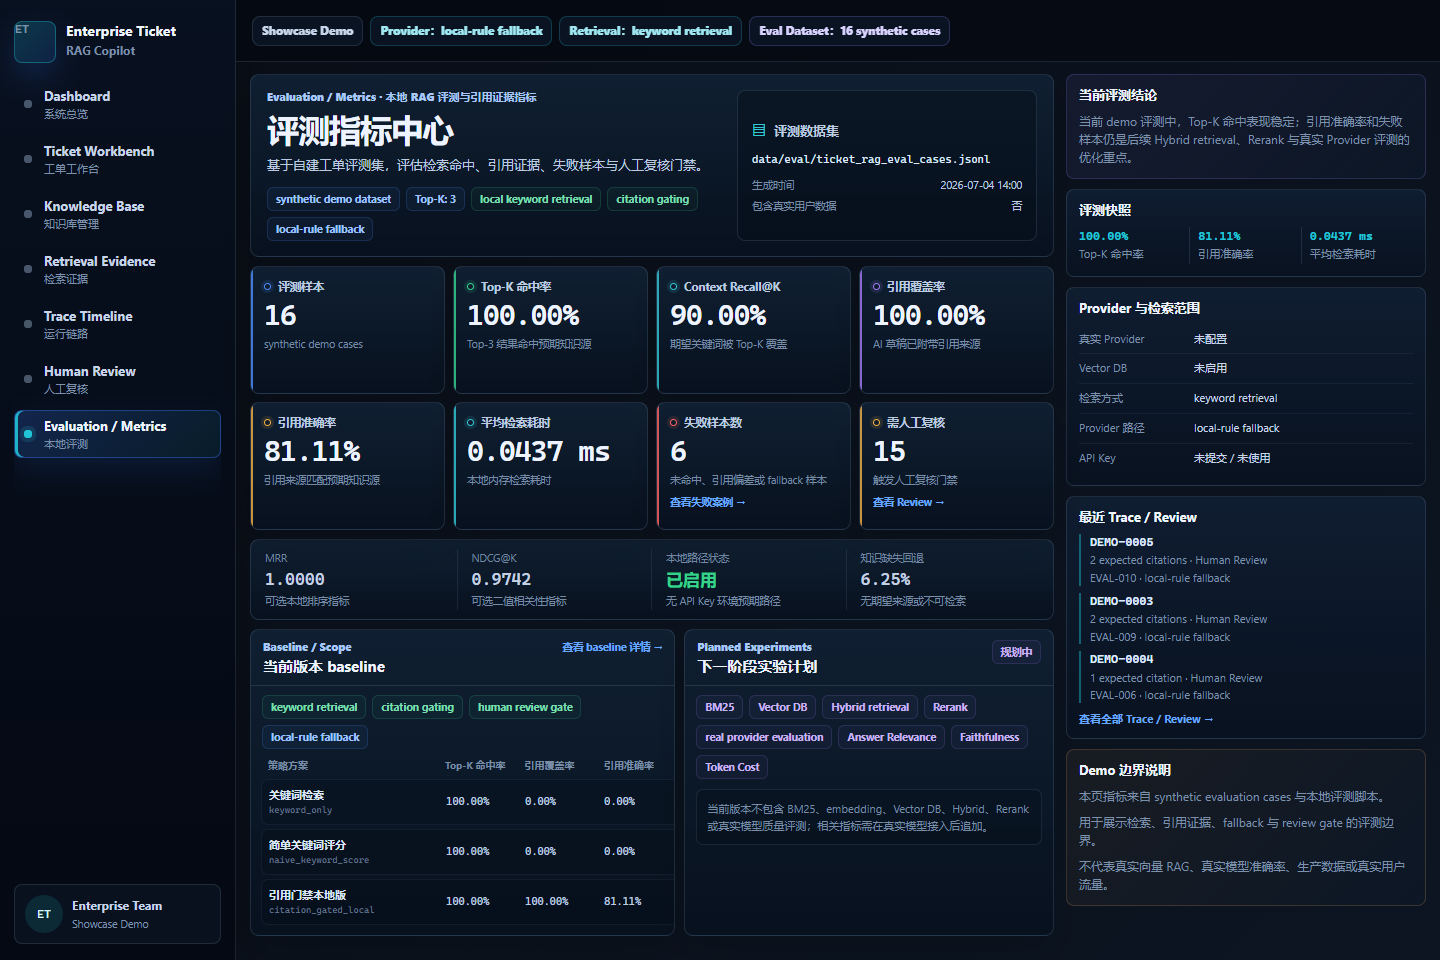
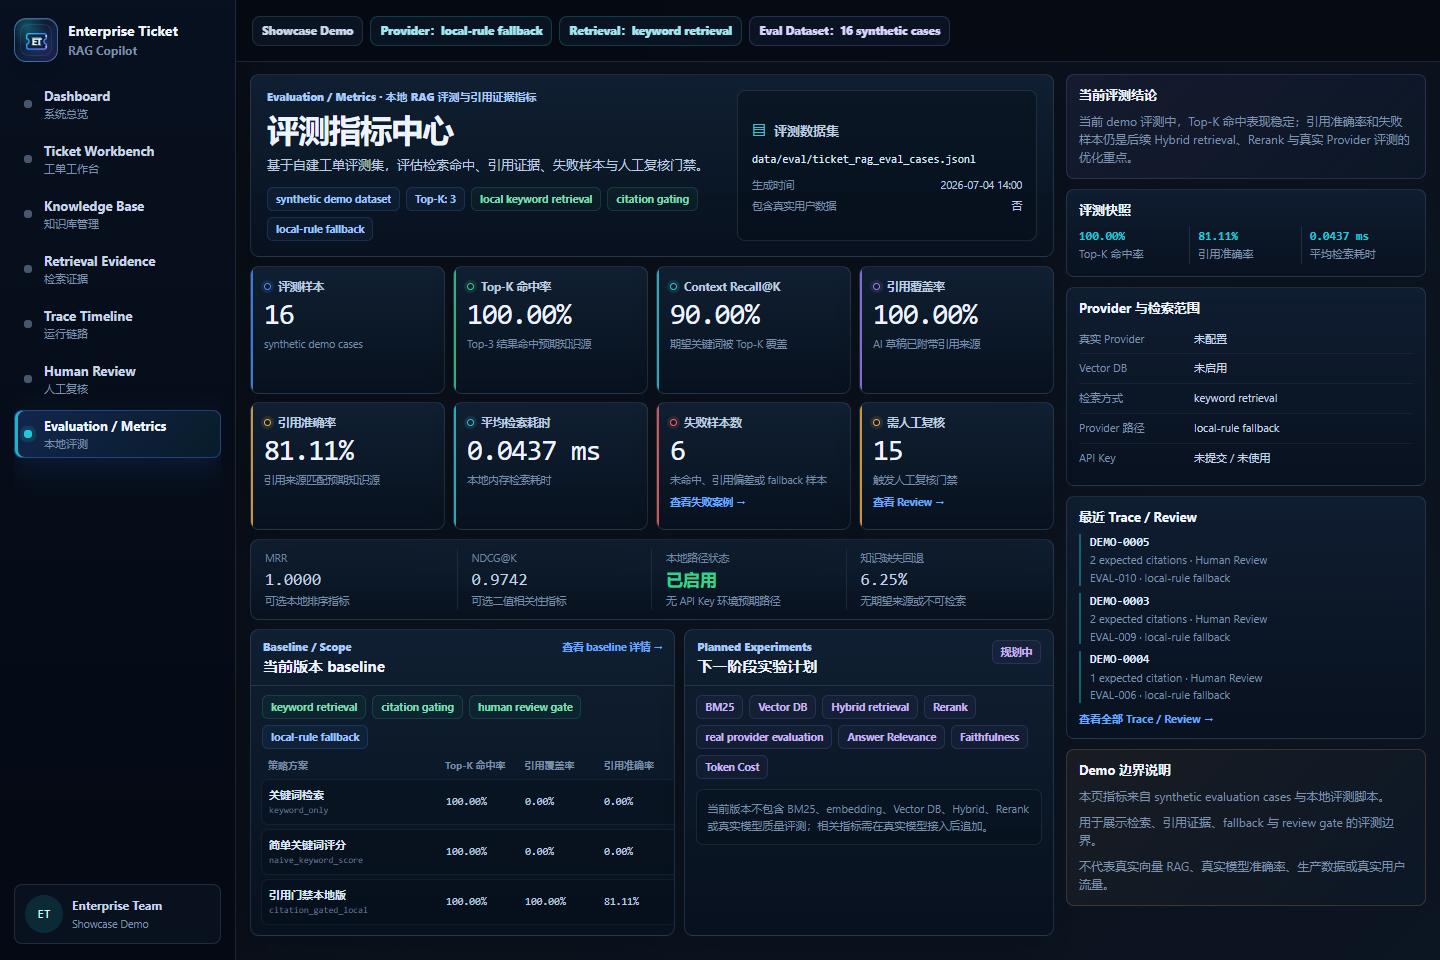
fix: restore sidebar brand mark

diff --git a/frontend/src/App.vue b/frontend/src/App.vue
@@ -157,7 +157,40 @@ onBeforeUnmount(() => {
   <div class="portfolio-shell" :data-active-route="activeRoute">
     <aside class="portfolio-shell__sidebar" aria-label="Showcase navigation">
       <div class="portfolio-shell__brand" aria-label="Enterprise Ticket RAG Copilot">
-        <span class="portfolio-shell__brand-mark" aria-hidden="true">ET</span>
+        <span class="portfolio-shell__brand-mark" aria-hidden="true">
+          <svg class="portfolio-shell__brand-glyph" viewBox="0 0 36 36" focusable="false">
+            <defs>
+              <linearGradient id="portfolio-brand-ticket" x1="7" y1="8" x2="30" y2="29" gradientUnits="userSpaceOnUse">
+                <stop stop-color="#27d3e7" />
+                <stop offset="0.52" stop-color="#3d7cff" />
+                <stop offset="1" stop-color="#8b7cf6" />
+              </linearGradient>
+              <linearGradient id="portfolio-brand-fill" x1="9" y1="10" x2="27" y2="27" gradientUnits="userSpaceOnUse">
+                <stop stop-color="#102a3d" />
+                <stop offset="1" stop-color="#101a3a" />
+              </linearGradient>
+            </defs>
+            <path
+              d="M9.4 10.6h17.2c1.2 0 2.1.9 2.1 2.1v3.1c-1.6.5-2.7 1.7-2.7 3.2 0 1.4 1.1 2.7 2.7 3.2v3.1c0 1.2-.9 2.1-2.1 2.1H9.4c-1.2 0-2.1-.9-2.1-2.1v-3.1c1.6-.5 2.7-1.8 2.7-3.2 0-1.5-1.1-2.7-2.7-3.2v-3.1c0-1.2.9-2.1 2.1-2.1Z"
+              fill="url(#portfolio-brand-fill)"
+              stroke="url(#portfolio-brand-ticket)"
+              stroke-width="1.5"
+            />
+            <path d="M13 15.2h10M13 22.8h10" stroke="#77e8f6" stroke-width="1.15" stroke-linecap="round" opacity="0.72" />
+            <text
+              x="18"
+              y="22.6"
+              fill="#f1fcff"
+              font-family="Cascadia Code, SFMono-Regular, Consolas, monospace"
+              font-size="10.8"
+              font-weight="900"
+              letter-spacing="-0.8"
+              text-anchor="middle"
+            >ET</text>
+            <circle cx="28.6" cy="13.2" r="1" fill="#b7f8ff" opacity="0.9" />
+            <circle cx="28.6" cy="24.8" r="1" fill="#c8c2ff" opacity="0.86" />
+          </svg>
+        </span>
         <div>
           <strong>Enterprise Ticket</strong>
           <span>RAG Copilot</span>
@@ -377,44 +410,62 @@ onBeforeUnmount(() => {
 
 .portfolio-shell__brand {
   display: grid;
-  grid-template-columns: 42px minmax(0, 1fr);
+  grid-template-columns: 44px minmax(0, 1fr);
   gap: 10px;
   align-items: center;
   min-height: 48px;
 }
 
 .portfolio-shell__brand-mark {
+  position: relative;
+  isolation: isolate;
   display: grid;
-  width: 42px;
-  height: 42px;
+  width: 44px;
+  height: 44px;
   place-items: center;
-  border: 1px solid rgba(33, 199, 217, 0.34);
-  border-radius: 8px;
+  border: 1px solid rgba(112, 205, 255, 0.42);
+  border-radius: 12px;
   color: #dff8ff;
   background:
-    linear-gradient(135deg, rgba(33, 199, 217, 0.24), rgba(61, 124, 255, 0.2)),
-    rgba(4, 10, 22, 0.8);
-  box-shadow: 0 14px 30px rgba(61, 124, 255, 0.18);
-  font-family: "Cascadia Code", SFMono-Regular, Consolas, monospace;
-  font-size: 13px;
-  font-weight: 900;
+    radial-gradient(circle at 28% 18%, rgba(33, 199, 217, 0.34), transparent 42%),
+    linear-gradient(135deg, rgba(5, 18, 33, 0.98), rgba(18, 31, 64, 0.96) 54%, rgba(38, 30, 82, 0.94));
+  box-shadow:
+    inset 0 1px 0 rgba(255, 255, 255, 0.14),
+    0 14px 30px rgba(3, 10, 26, 0.34);
 }
 
-.portfolio-shell__brand strong,
-.portfolio-shell__brand span {
+.portfolio-shell__brand-mark::after {
+  position: absolute;
+  inset: 5px;
+  z-index: 0;
+  border: 1px solid rgba(255, 255, 255, 0.08);
+  border-radius: 9px;
+  content: "";
+}
+
+.portfolio-shell__brand-glyph {
+  position: relative;
+  z-index: 1;
+  width: 33px;
+  height: 33px;
+  filter: drop-shadow(0 2px 5px rgba(33, 199, 217, 0.22));
+}
+
+.portfolio-shell__brand > div > strong,
+.portfolio-shell__brand > div > span {
   display: block;
   overflow: hidden;
   text-overflow: ellipsis;
   white-space: nowrap;
 }
 
-.portfolio-shell__brand strong {
+.portfolio-shell__brand > div > strong {
   color: var(--shell-text);
   font-size: 14px;
   line-height: 1.25;
 }
 
-.portfolio-shell__brand span {
+.portfolio-shell__brand > div > span {
   margin-top: 3px;
   color: var(--shell-muted);
   font-size: 12px;

diff --git a/HANDOFF.md b/HANDOFF.md
@@ -6,6 +6,15 @@
 
 ## 当前交接更新
 
+### 2026-07-04 — Codex — Restore Sidebar Brand Mark
+
+- 本轮任务：仅修复 App Shell / Sidebar 左上角 Enterprise Ticket RAG Copilot 品牌图标，避免 Evaluation / Metrics 截图中品牌区弱化；未重构布局，未修改 Evaluation 页面指标逻辑。
+- 前端改动：`frontend/src/App.vue` 将原 42px 纯文本 `ET` 标识替换为 44px 深色圆角容器 + 原创 inline SVG ticket / ET 标识；同步收窄品牌文字 CSS selector，避免 `.portfolio-shell__brand span` 覆盖品牌图标样式。
+- 视觉边界：延续深蓝黑背景、低饱和面板、青蓝高亮与蓝紫轻微渐变；没有使用第三方 Logo，没有使用 Image2 图，没有接入真实 API Key。
+- 截图：`docs/images/evaluation-metrics.png`、`docs/images/large/evaluation-metrics.png` 均由本项目本地页面重新生成；截图脚本默认 5173 端口被占用后，改用空闲端口 41739 与 `SCREENSHOT_URL=http://127.0.0.1:41739` 通过。脚本全量生成的其他页面截图已恢复，未纳入本轮改动。
+- 验证：`npm run typecheck` 通过；`npm run build` 通过；`npm run screenshots` 默认端口 5173 被占用失败，随后使用 `SCREENSHOT_URL=http://127.0.0.1:41739 npm run screenshots` 通过，并人工目视复核 Evaluation 截图左上角品牌图标清晰可见。
+- 未做事项：未改 README，未改后端，未改 `docs/frontend_reference*`，未改 `frontend/src/data/evaluationMetrics.ts`，未改 RAG metrics 口径，未提交 `.local/` 或 Image2 图。
+
 ### 2026-07-04 — Codex — Evaluation / Metrics 视觉精修
 
 - 本轮任务：仅精修 App Shell 与 Evaluation / Metrics 页面，按本地 ignored 参考图 `.local/design_targets/evaluation_metrics_target_v1.png` 落地真实 Vue 页面；未改 Ticket Workbench、Knowledge、Trace、Human Review 业务页面。

diff --git a/TODO.md b/TODO.md
@@ -39,6 +39,7 @@
 - 本地 RAG / Citation / Trace Evaluation 最小闭环已补充，包含 `data/eval/ticket_rag_eval_cases.jsonl`、`scripts/evaluate_rag_demo.py`、`docs/evaluation/RAG_EVALUATION_PLAN.md`、`docs/metrics/rag_metrics_latest.json` 和 `docs/metrics/rag_metrics_snapshot.md`。
 - 2026-07-04 已完成前端 Phase 1：统一深色 Showcase App Shell，升级 Dashboard 首页，新建 Evaluation / Metrics 页面，同步本地评测数据到 `frontend/src/data/evaluationMetrics.ts`，并刷新本项目真实运行截图；未使用第三方截图，未接真实 API Key。
 - 2026-07-04 已完成 Evaluation / Metrics 视觉精修：页面产品名调整为“评测指标中心”，8 个核心 KPI 与 4 个补充指标分层展示，Baseline / 实验计划与右侧评测上下文产品化，并刷新本项目标准与 large 真实截图；所有指标继续限定为 synthetic demo dataset + local keyword retrieval + citation gating + local-rule fallback。
+- 2026-07-04 已完成 Evaluation / Metrics 左上角 Sidebar 品牌图标修复：App Shell 品牌区恢复 44px 深色圆角容器 + 原创 ET/ticket inline SVG 标识，并只刷新 `evaluation-metrics` 标准与 large 真实截图；未修改 Evaluation 指标数据、RAG metrics 口径、README、后端或 `docs/frontend_reference*`。
 
 ## 3. 当前不能夸大的能力
 
